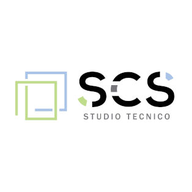
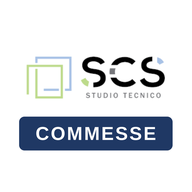
Telefono: barra in alto su due righe, attività leggibili, avvisi in alto; icona COMMESSE
Su iPhone e Android la barra in alto stringeva il titolo in una colonna
di una parola per riga e mandava gli ultimi pulsanti fuori dal bordo: ora
va su due righe. Le attività mettono il titolo a tutta larghezza, le
cifre dei riquadri stanno su una riga, e gli avvisi compaiono in alto e
si chiudono con un tocco, invece di coprire i pulsanti «Salva» delle
finestre.

L'icona dell'app è quella dei cantieri con la scritta COMMESSE, e sulla
schermata Home il nome è «Commesse SCS». I test sul telefono girano anche
su iPhone 14 e su un Android grande.

Claude-Session: https://claude.ai/code/session_01Nu8AHJ9F2kHx3y1cAmjwFS

Changed region(s): [[0.0625, 0.2812, 0.9062, 0.8125]]

diff --git a/index.html b/index.html
@@ -7,11 +7,11 @@
 <!-- App installabile (Mac, Windows, iPhone): vedi manifest.webmanifest e sw.js -->
 <link rel="manifest" href="manifest.webmanifest">
 <meta name="theme-color" content="#1F3864">
-<link rel="icon" type="image/png" sizes="32x32" href="icons/favicon-32.png">
-<link rel="apple-touch-icon" href="icons/apple-touch-icon.png">
+<link rel="icon" type="image/png" sizes="32x32" href="icons/favicon-32.png?v=2">
+<link rel="apple-touch-icon" href="icons/apple-touch-icon.png?v=2">
 <meta name="apple-mobile-web-app-capable" content="yes">
 <meta name="mobile-web-app-capable" content="yes">
-<meta name="apple-mobile-web-app-title" content="SCS Gestionale">
+<meta name="apple-mobile-web-app-title" content="Commesse SCS">
 <meta name="apple-mobile-web-app-status-bar-style" content="default">
 <script src="https://cdn.jsdelivr.net/npm/@supabase/supabase-js@2/dist/umd/supabase.min.js"></script>
 <style>
@@ -144,8 +144,36 @@ textarea.fc { resize:vertical; min-height:64px; }
   .sn { padding:12px 16px; font-size:14px; min-height:44px; }
   .sout { padding:10px 0; }
 
-  #top { padding:0 12px; gap:8px; }
+  /* La barra in alto su due righe: sopra menu, titolo, campanella e
+     ricarica; sotto i pulsanti della pagina, che vanno a capo se serve.
+     Prima stava tutto su una riga: il titolo si stringeva in una colonna
+     di una parola per riga e gli ultimi pulsanti finivano fuori dal bordo. */
+  #top { padding:6px 12px 8px; gap:6px 8px; flex-wrap:wrap; min-height:0; }
+  #top > div:not(#top-act) { flex:1 1 0; min-width:0; }
   #top h2 { font-size:15px; overflow:hidden; text-overflow:ellipsis; }
+  #crumb { white-space:nowrap; overflow:hidden; text-overflow:ellipsis; font-size:11.5px; }
+  #top-act { order:10; flex:1 1 100%; margin-left:0; flex-wrap:wrap; gap:6px; }
+  #top-act:empty { display:none; }
+  #top-act .btn { flex:0 1 auto; }
+  #top-act .srch { width:100%; flex:1 1 100%; }
+
+  /* Una attivita': casella e titolo sulla prima riga, a tutta larghezza;
+     assegna, scadenza e dettagli sotto. In fila, al titolo restavano pochi
+     punti e andava a capo una parola per riga. */
+  /* (con #page davanti: le regole generali di .it e .kpi stanno piu' sotto
+     nel file e, a parita' di peso, vincerebbero loro) */
+  #page .it { flex-wrap:wrap; row-gap:4px; }
+  #page .it-m { flex:1 1 calc(100% - 34px); }
+  #page .it > .pick:first-of-type { margin-left:29px; }
+
+  /* Le cifre grandi dei riquadri: «24.000,00 €» deve stare su una riga */
+  #page .kpi { padding:12px; }
+  #page .kpi-v { font-size:21px; white-space:nowrap; }
+
+  /* Gli avvisi in alto, sotto la barra: in basso coprivano i pulsanti
+     «Salva» delle finestre. Si chiudono anche con un tocco. */
+  #tc { top:calc(8px + env(safe-area-inset-top)) !important; bottom:auto !important; left:10px !important; right:10px !important; }
+  #tc .toast { max-width:none; cursor:pointer; pointer-events:auto; }
   #page { padding:12px; }
 
   /* Due colonne su uno schermo largo come una mano non sono due colonne:
@@ -1612,7 +1640,7 @@ const STUDIO = {
 /* Versione del file: compare in fondo alla barra laterale e nella schermata di
    accesso. Serve a capire in un colpo d'occhio se il browser sta servendo una
    copia vecchia dalla cache invece del file appena caricato. */
-const VERSIONE = '2026.11.26.02';
+const VERSIONE = '2026.11.26.03';
 
 const SURL = 'https://aaneazempmhuznvornwn.supabase.co';
 const SKEY = 'eyJhbGciOiJIUzI1NiIsInR5cCI6IkpXVCJ9.eyJpc3MiOiJzdXBhYmFzZSIsInJlZiI6ImFhbmVhemVtcG1odXpudm9ybnduIiwicm9sZSI6ImFub24iLCJpYXQiOjE3ODIxMzA0MzIsImV4cCI6MjA5NzcwNjQzMn0.SStt_69iTybb_z-JqWYWhavROWmURyfZEguW96FQDIA';
@@ -1791,6 +1819,7 @@ function toast(msg, t) {
   d.className = 'toast';
   d.style.background = t === 'error' ? '#B02A37' : t === 'success' ? '#198754' : t === 'warning' ? '#B35C00' : '#1F3864';
   d.textContent = msg;
+  d.title = 'Tocca per chiudere'; d.onclick = () => d.remove();
   el('tc').appendChild(d);
   /* gli avvisi da leggere restano di piu' */
   setTimeout(() => d.remove(), t === 'error' || t === 'warning' ? 6000 : 3200);

diff --git a/test/mobile.js b/test/mobile.js
@@ -9,6 +9,8 @@ function launchOpts(){for(const q of ['/opt/pw-browsers/chromium-1194/chrome-lin
 const SCHERMI=[
   ['iPhone SE',           320,568,  'telefono'],
   ['iPhone 13',           390,664,  'telefono'],
+  ['iPhone 14',           390,844,  'telefono'],
+  ['Android grande',      412,915,  'telefono'],
   ['iPhone orizzontale',  664,390,  'telefono'],
   ['iPad mini verticale', 768,1024, 'tavoletta'],
   ['iPad Pro verticale',  834,1194, 'tavoletta'],
@@ -105,6 +107,26 @@ const SCHERMI=[
         await p.tap('#sidevelo',{position:{x:w-10,y:h-10}}); await p.waitForTimeout(350);
         must(!(await p.evaluate(()=>document.getElementById('side').classList.contains('aperto'))),
           'il velo non richiude il cassetto');
+      });
+      await t(nome+': la barra in alto: titolo su una riga e pulsanti dentro lo schermo',async()=>{
+        const fuori=[];
+        for(const pg of ['oggi','fatturare','preventivi','costi']){
+          await p.evaluate(x=>{ S.prof.role='admin'; S.prof.vede_tutto=true; go(x); },pg); await p.waitForTimeout(250);
+          const g=await p.evaluate(()=>{ const h=document.getElementById('ptitle').getBoundingClientRect();
+            const b=[...document.querySelectorAll('#top button, #top-act > *')].filter(x=>x.getBoundingClientRect().width>0)
+              .filter(x=>{ const r=x.getBoundingClientRect(); return r.left<-1||r.right>innerWidth+1; }).length;
+            return {alto:Math.round(h.height), b}; });
+          if(g.alto>26||g.b) fuori.push(pg+' '+JSON.stringify(g));
+        }
+        must(!fuori.length,fuori.join(' | '));
+      });
+      await t(nome+': gli avvisi stanno in alto e non coprono i pulsanti delle finestre',async()=>{
+        const g=await p.evaluate(()=>{ toast('Prova avviso','warning'); const r=document.querySelector('#tc .toast').getBoundingClientRect();
+          return {top:Math.round(r.top), h:innerHeight}; });
+        must(g.top<g.h/3,'l avviso compare in basso: '+JSON.stringify(g));
+        await p.tap('#tc .toast'); await p.waitForTimeout(100);
+        must(await p.evaluate(()=>!document.querySelector('#tc .toast')),'toccando l avviso non si chiude');
+        await p.evaluate(()=>go('projects'));
       });
       await t(nome+': i campi non fanno ingrandire la pagina da soli',async()=>{
         /* Safari di iOS ingrandisce quando si tocca un campo sotto i 16px */

diff --git a/test/e2e.js b/test/e2e.js
@@ -3620,7 +3620,7 @@ function launchOpts(){
     const fs=require('fs'), path=require('path'), root=path.join(__dirname,'..');
     const m=JSON.parse(fs.readFileSync(path.join(root,'manifest.webmanifest'),'utf8'));
     must(m.display==='standalone'&&m.start_url==='./','manifest: '+JSON.stringify(m));
-    m.icons.forEach(i=>must(fs.existsSync(path.join(root,i.src)),'icona mancante: '+i.src));
+    m.icons.forEach(i=>must(fs.existsSync(path.join(root,i.src.split('?')[0])),'icona mancante: '+i.src));
     must(fs.existsSync(path.join(root,'sw.js'))&&fs.existsSync(path.join(root,'icons','apple-touch-icon.png')),'manca sw.js o l icona per iPhone');
     const wf=fs.readFileSync(path.join(root,'.github','workflows','pages.yml'),'utf8');
     must(/manifest\.webmanifest/.test(wf)&&/sw\.js/.test(wf)&&/icons/.test(wf),'la pubblicazione non copia i file dell app');

diff --git a/sw.js b/sw.js
@@ -8,7 +8,7 @@
    pubblicato arriva subito. Solo se la rete non risponde si usa l'ultima
    copia salvata.
    =========================================================================== */
-const CACHE = 'scs-gestionale-v1';
+const CACHE = 'scs-gestionale-v2';
 const FILE = ['./', './manifest.webmanifest', './icons/icona-192.png', './icons/icona-512.png',
               './icons/apple-touch-icon.png', './icons/favicon-32.png'];
 

diff --git a/README.md b/README.md
@@ -452,6 +452,17 @@ accesso il collegamento *Installa l'app su questo dispositivo*):
 - **iPhone e iPad** (con Safari): pulsante *Condividi* → *Aggiungi alla
   schermata Home* → *Aggiungi*.
 
+L'icona è quella dello studio con la scritta **COMMESSE** sotto (come l'app
+dei cantieri, che ha **CANTIERI**), e sulla schermata Home il nome è
+*Commesse SCS*. Chi aveva già aggiunto l'icona prima della versione
+2026.11.26.03 la toglie e la rimette per vedere quella nuova.
+
+**Sul telefono** (iPhone, Android, larghezza fino a 760 punti) la barra in alto
+va su due righe — titolo, campanella e ricarica sopra, pulsanti della pagina
+sotto — le attività mettono il titolo a tutta larghezza e assegna/scadenza
+sotto, le cifre dei riquadri stanno su una riga, e gli avvisi compaiono in
+alto (si chiudono con un tocco) invece di coprire i pulsanti «Salva».
+
 Il pulsante sparisce quando il gestionale è già aperto come app. Gli
 aggiornamenti arrivano da soli: l'app chiede sempre prima la versione
 pubblicata e solo senza rete apre l'ultima copia salvata. Il *service worker*
@@ -611,7 +622,8 @@ metà giro e il rumore che ne segue nasconderebbe i guasti veri.
 
 ### `mobile.js` — iPad e iPhone
 
-Rifà il giro su **sei schermi** — iPhone SE, iPhone 13, iPhone in orizzontale,
+Rifà il giro su **otto schermi** — iPhone SE, iPhone 13, iPhone 14, un Android
+grande, iPhone in orizzontale,
 iPad mini e iPad Pro in verticale, iPad in orizzontale — toccando col dito, non
 cliccando col mouse. Su ognuno verifica che aprendo una commessa la scheda si
 apra davvero, che in tutte e sei le sue linguette **niente finisca oltre il
@@ -622,7 +634,9 @@ diventi un cassetto, che si arrivi in fondo al menu, che si richiuda da sola
 quando scegli dove andare, che ogni voce sia alta almeno 44 punti — la misura
 sotto la quale un dito sbaglia bersaglio — e che nessun campo abbia il testo
 sotto i 16 punti, perché sotto quella soglia Safari di iOS ingrandisce la pagina
-da solo appena tocchi una casella.
+da solo appena tocchi una casella. Controlla anche la **barra in alto** (titolo
+su una riga, pulsanti dentro lo schermo) e che gli **avvisi** compaiano in alto
+e si chiudano con un tocco, senza coprire i pulsanti delle finestre.
 
 36 controlli.
 
